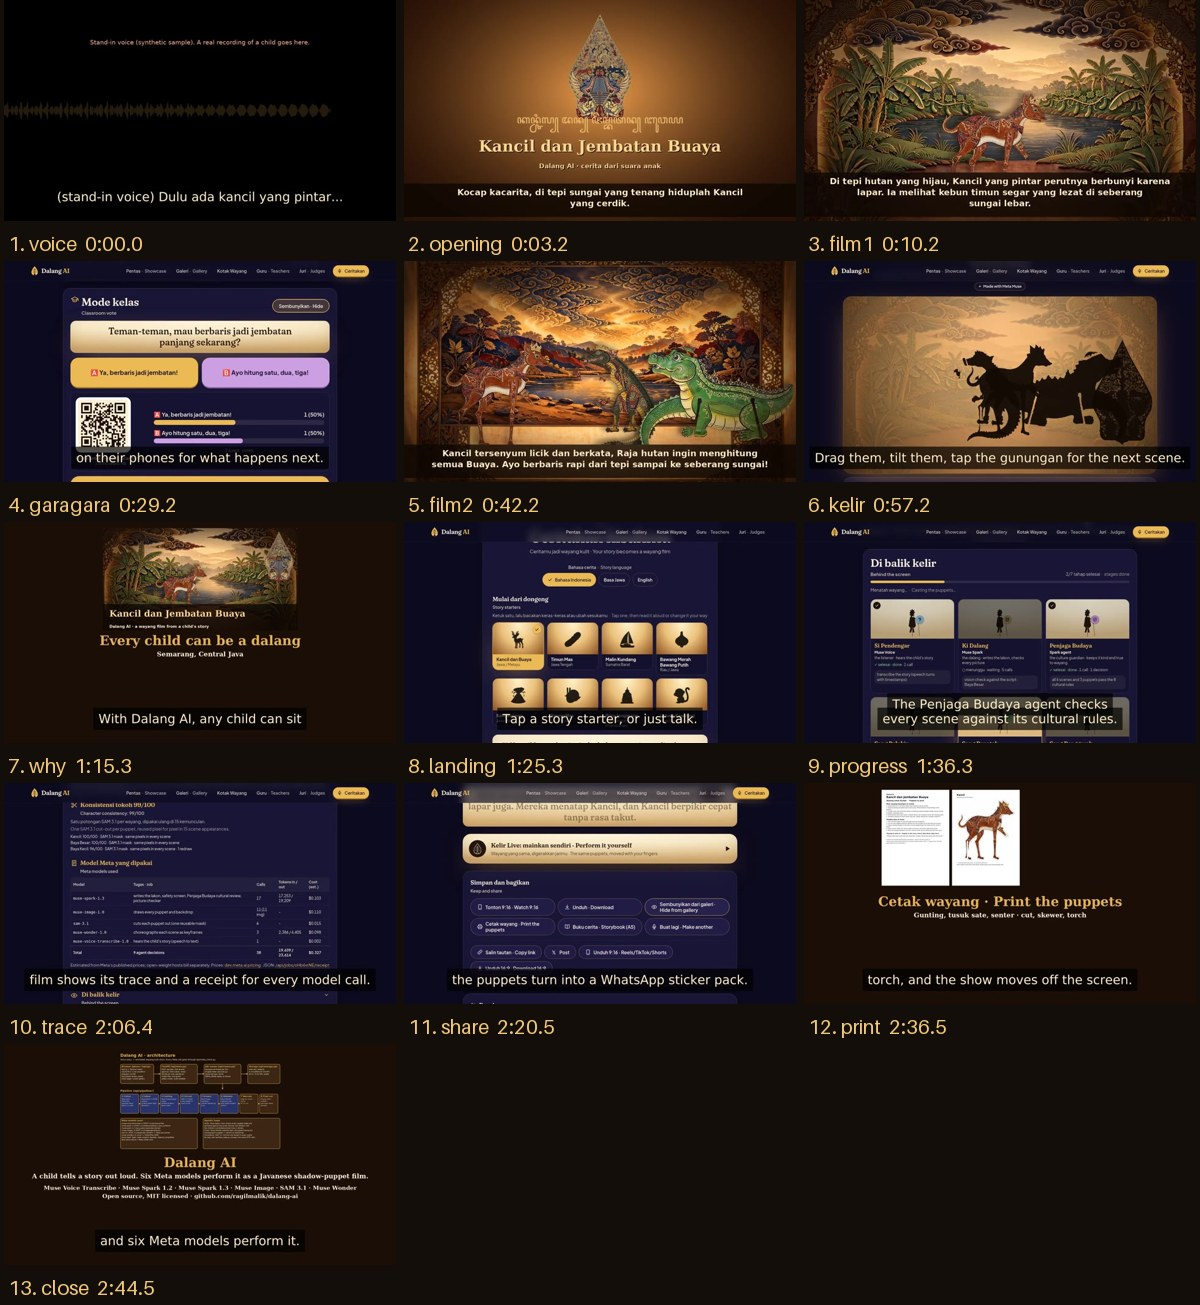
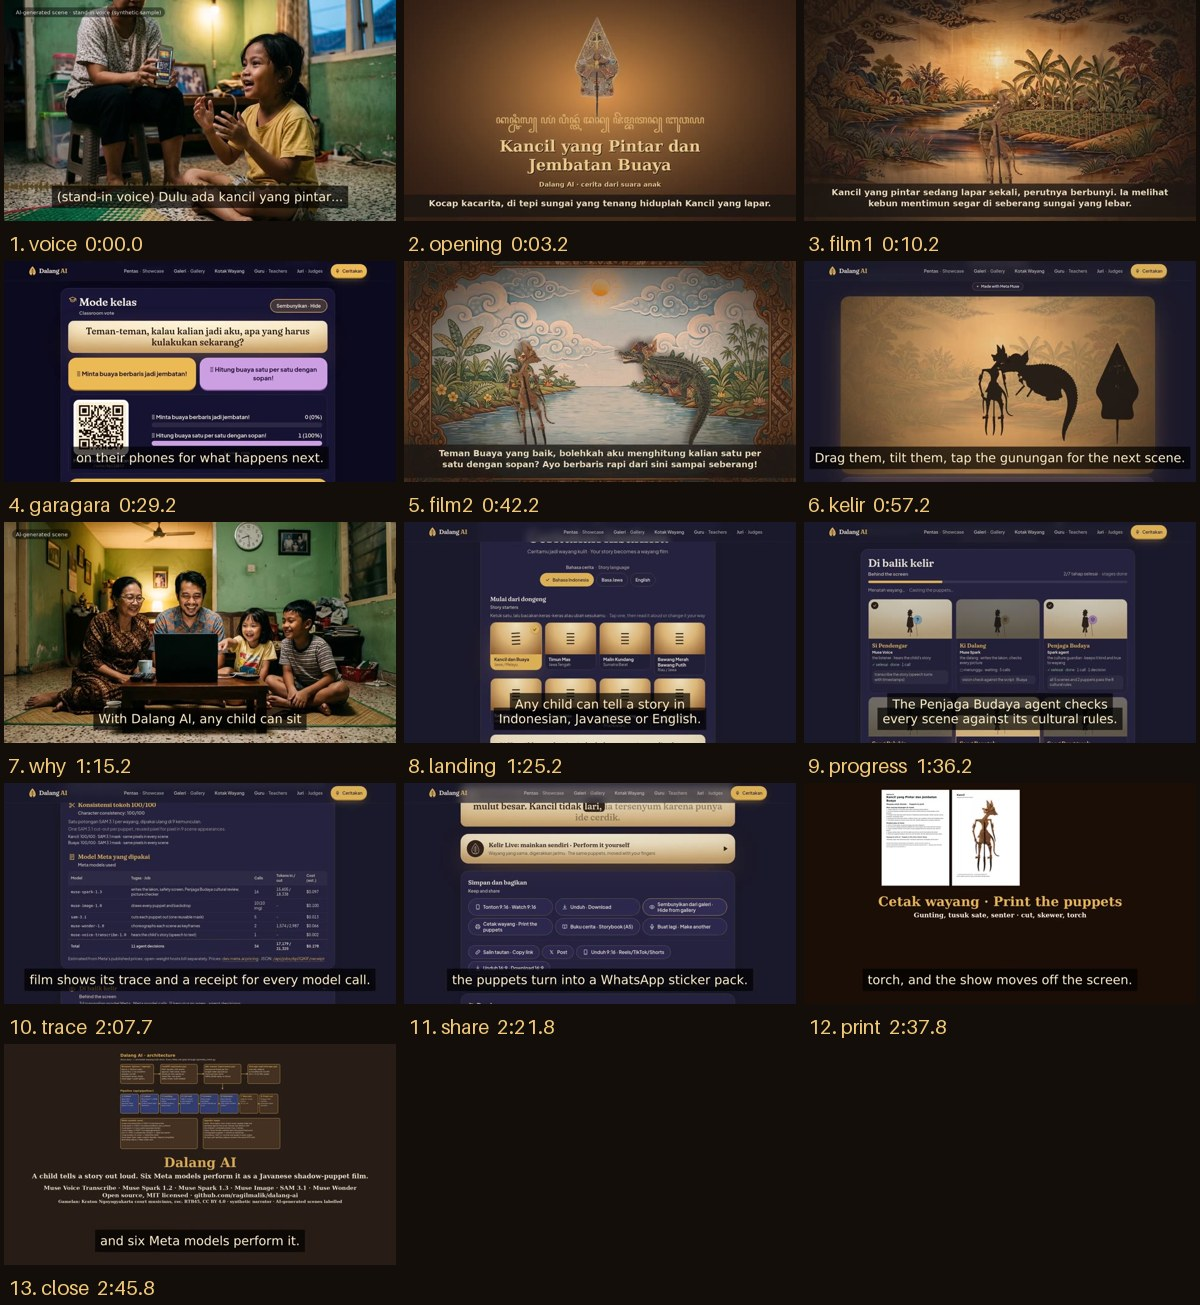
Nov 7: final check, sample scores credit the Kraton recording, credits and storyboard updated

diff --git a/api/pipeline/engine.py b/api/pipeline/engine.py
@@ -430,7 +430,8 @@ def _encode(kelir: Kelir, out: Path, dst: Path, fps: int, n: int, W: int, H: int
 
 
 def soundtrack(film: Film, out_wav: Path) -> Path:
-    """Narration + synthesised gamelan-style gong and bonang (made in code, so no music licence needed)."""
+    """Narration, the gong and bonang cues on the title and end cards (made in code), and the gamelan bed under the
+    scenes (music_bed: the Kraton recording, CC BY 4.0, or the code-made ensemble)."""
     sr = media.SR
     total = np.zeros(int(film.total * sr) + sr, np.float32)
     voice = np.zeros_like(total)  # narration only, used to duck the music bed

diff --git a/tests/test_director_gamelan.py b/tests/test_director_gamelan.py
@@ -186,3 +186,14 @@ def test_decode_rejects_an_empty_file(tmp_path):
     bad.write_bytes(b"")
     with pytest.raises((subprocess.CalledProcessError, ValueError)):
         gamelan._decode(str(bad))
+
+
+def test_bundled_samples_name_the_gamelan_they_play():
+    """The shipped sample films were cut with the Kraton recording, so their score must say so (and credit it)."""
+    from api import samples
+
+    states = samples.bundled()
+    assert len(states) == 3
+    for s in states:
+        assert s["score"]["procedural"] is False, s["sample_key"]
+        assert s["score"]["recording"] == gamelan.RECORDING_CREDIT

diff --git a/docs/demo/STORYBOARD.md b/docs/demo/STORYBOARD.md
@@ -1,6 +1,6 @@
 # Demo video storyboard
 
-Generated by `scripts/demo_storyboard.py` from `dalang-ai-demo.mp4` (176.6 s). One still per shot, taken mid-shot.
+Generated by `scripts/demo_storyboard.py` from `dalang-ai-demo.mp4` (178.2 s). One still per shot, taken mid-shot.
 
 | # | Time | Shot | Still | Voice-over |
 |---|---|---|---|---|
@@ -9,11 +9,11 @@ Generated by `scripts/demo_storyboard.py` from `dalang-ai-demo.mp4` (176.6 s). O
 | 3 | 0:10.2-0:29.2 | film1 | ![film1](storyboard/03-film1.jpg) | That's a kid's story. Ninety seconds of talking, performed back as wayang kulit. |
 | 4 | 0:29.2-0:42.2 | garagara | ![garagara](storyboard/04-garagara.jpg) | Then the gara-gara. The show pauses and the whole class votes on their phones for what happens next. |
 | 5 | 0:42.2-0:57.2 | film2 | ![film2](storyboard/05-film2.jpg) | (film plays with its own narration and gamelan) |
-| 6 | 0:57.2-1:15.3 | kelir | ![kelir](storyboard/06-kelir.jpg) | Then the child takes the puppets. In Kelir Live they're on a lamp-lit screen. Drag them, tilt them, tap the gunungan for the next scene. |
-| 7 | 1:15.3-1:25.3 | why | ![why](storyboard/07-why.jpg) | Wayang kulit is a thousand years old. With Dalang AI, any child can sit behind the kelir and be the dalang. (Malik, first person: I'm Malik, from Semarang. Wayang is a thousand years old, but the kids around me have never sat in front of a kelir. So I built Dalang AI.) |
-| 8 | 1:25.3-1:36.3 | landing | ![landing](storyboard/08-landing.jpg) | Any child can tell a story in Indonesian, Javanese or English. Tap a story starter, or just talk. Nothing to type. |
-| 9 | 1:36.3-2:06.4 | progress | ![progress](storyboard/09-progress.jpg) | Six Meta models work as one troupe, and you can watch them on stage. Muse Voice Transcribe listens, Muse Spark one point two hears Javanese, and Muse Spark one point three writes the lakon. The Penjaga Budaya agent checks every scene against its cultural rules. Muse Image carves each puppet once and SAM three point one cuts it out. Muse Wonder plans every move, and the Dalang Director sets the camera and the gamelan. |
-| 10 | 2:06.4-2:20.5 | trace | ![trace](storyboard/10-trace.jpg) | It checks its own work. A vision agent redraws any picture that breaks the script, and every film shows its trace and a receipt for every model call. |
-| 11 | 2:20.5-2:36.5 | share | ![share](storyboard/11-share.jpg) | Read-along captions light up each word as it's spoken. Share the film to the Pentas wall, and the puppets turn into a WhatsApp sticker pack. |
-| 12 | 2:36.5-2:44.5 | print | ![print](storyboard/12-print.jpg) | Print the puppets and the storybook, grab a torch, and the show moves off the screen. |
-| 13 | 2:44.5-2:56.6 | close | ![close](storyboard/13-close.jpg) | Dalang AI. A child tells a story out loud, and six Meta models perform it. Every child can be a dalang. (Malik, first person: Built solo this week with Meta's models. Dalang AI: every child can be a dalang. Matur nuwun.) |
+| 6 | 0:57.2-1:15.2 | kelir | ![kelir](storyboard/06-kelir.jpg) | Then the child takes the puppets. In Kelir Live they're on a lamp-lit screen. Drag them, tilt them, tap the gunungan for the next scene. |
+| 7 | 1:15.2-1:25.2 | why | ![why](storyboard/07-why.jpg) | Wayang kulit is a thousand years old. With Dalang AI, any child can sit behind the kelir and be the dalang. (Malik, first person: I'm Malik, from Semarang. Wayang is a thousand years old, but the kids around me have never sat in front of a kelir. So I built Dalang AI.) |
+| 8 | 1:25.2-1:36.2 | landing | ![landing](storyboard/08-landing.jpg) | Any child can tell a story in Indonesian, Javanese or English. Tap a story starter, or just talk. Nothing to type. |
+| 9 | 1:36.2-2:07.7 | progress | ![progress](storyboard/09-progress.jpg) | Six Meta models work as one troupe, and you can watch them on stage. Muse Voice Transcribe listens, Muse Spark one point two hears Javanese, and Muse Spark one point three writes the lakon. The Penjaga Budaya agent checks every scene against its cultural rules. Muse Image carves each puppet once and SAM three point one cuts it out. Muse Wonder plans every move, and the Dalang Director sets the camera and the gamelan. |
+| 10 | 2:07.7-2:21.8 | trace | ![trace](storyboard/10-trace.jpg) | It checks its own work. A vision agent redraws any picture that breaks the script, and every film shows its trace and a receipt for every model call. |
+| 11 | 2:21.8-2:37.8 | share | ![share](storyboard/11-share.jpg) | Read-along captions light up each word as it's spoken. Share the film to the Pentas wall, and the puppets turn into a WhatsApp sticker pack. |
+| 12 | 2:37.8-2:45.8 | print | ![print](storyboard/12-print.jpg) | Print the puppets and the storybook, grab a torch, and the show moves off the screen. |
+| 13 | 2:45.8-2:58.2 | close | ![close](storyboard/13-close.jpg) | Dalang AI. A child tells a story out loud, and six Meta models perform it. Every child can be a dalang. (Malik, first person: Built solo this week with Meta's models. Dalang AI: every child can be a dalang. Matur nuwun.) |

diff --git a/docs/TEST_REPORT.md b/docs/TEST_REPORT.md
@@ -4,9 +4,9 @@
 
 | Check | Result |
 |---|---|
-| pytest (`pytest -q`, fake Meta API) | <!-- facts:tests -->557<!-- /facts --> tests pass, <!-- facts:coverage -->95%<!-- /facts --> line coverage of `api/` |
+| pytest (`pytest -q`, fake Meta API) | <!-- facts:tests -->558<!-- /facts --> tests pass, <!-- facts:coverage -->95%<!-- /facts --> line coverage of `api/` |
 | Full-stack e2e (`bash scripts/e2e_local.sh`) | <!-- facts:e2e -->29/29<!-- /facts --> steps |
-| Browser checks of the newest screens (`web/e2e/r5_ui.py`, 390 px phone) | 25/25 |
+| Browser checks of the newest screens (`web/e2e/r5_ui.py`, 390 px phone) | <!-- facts:e2e_ui -->30/30<!-- /facts --> |
 | axe-core audit (`bash scripts/a11y_local.sh`) | <!-- facts:a11y -->33<!-- /facts --> page checks, 0 violations ([ACCESSIBILITY.md](ACCESSIBILITY.md)) |
 | Home page largest paint (`web/e2e/r5_perf.py`, local production build) | under the 1.5 s target: 680 ms on Nov 4 (shared machine), 452 ms on Nov 3, 1108 ms on Nov 2 ([WEB_PERF_R5.md](WEB_PERF_R5.md)) |
 | Nov 3 after-checks (headers, titles, noindex, console, mic message, offline page, odd upload, one Sembah) | 21/21 |
@@ -14,6 +14,22 @@
 | Demo video | <!-- facts:demo_length -->2:58<!-- /facts -->, 1920x1080, -16.8 LUFS, re-recorded on Nov 6 (afternoon) on the live Meta Model API |
 
 The sections below are the dated runs, oldest first.
+
+## Final check: 2026-11-07, 00:35-00:55 WIB
+
+Fresh machine after a restart (Chromium re-installed), fake Meta API, no paid calls.
+
+| Check | Result |
+|---|---|
+| pytest with coverage | 558 passed, 3 warnings, 95% of `api/` (8 min 57 s) |
+| ruff / mypy | clean / no issues in 71 files |
+| `scripts/e2e_local.sh` | 29/29 steps, then 30/30 web checks |
+| `scripts/a11y_local.sh` | 33 page checks, 0 violations |
+| `voice_check.py` / `facts.py --check` | 0 hits / docs agree |
+
+Bugs found and fixed in this pass: two sample films whose saved score said "code-made gamelan" while they play the
+Kraton recording (new test `test_bundled_samples_name_the_gamelan_they_play`), Pocket TTS missing from
+`requirements-tts.txt`, the README credits table, a stale docstring, and the demo storyboard (rebuilt at 178.2 s).
 
 ## First full run: 2026-10-30, 05:31-05:35 WIB
 
@@ -210,7 +226,7 @@ slow 3G) and fixed what a family or a judge would hit: raw recordings could be f
 the film id, a forged `X-Forwarded-For: 127.0.0.1` skipped the hourly limit, uploads were read whole before the size
 check, there were no security headers, Sembah could be counted any number of times, the microphone stayed on after
 leaving the page, offline pages showed the browser's error, the film page polled forever, and puppet rods ran through
-the captions. After the fixes: pytest <!-- facts:tests -->557<!-- /facts --> tests (one SSE test timed out waiting
+the captions. After the fixes: pytest <!-- facts:tests -->558<!-- /facts --> tests (one SSE test timed out waiting
 for its server under parallel workers and passes alone; its wait was raised in ad37e64), coverage
 <!-- facts:coverage -->95%<!-- /facts -->, e2e 26/26, the phone browser checks 25/25, axe 0 violations on 22 page
 checks, and 21/21 after-checks for the fixes themselves. Two findings are left as they are: the hourly limit still
@@ -221,7 +237,7 @@ Later the same day the re-shot screenshots caught a film whose "Painting the sce
 and a server path. Two films with the same story were writing and reading one cached picture at the same moment, and
 one copied it half-written. Cached pictures are now written to a temp file and swapped in, one film at a time per
 cached picture, and a damaged entry is repainted. A failed film now shows a kind bilingual message and never the raw
-error text or a path. 21 new tests cover it; the whole suite is <!-- facts:tests -->557<!-- /facts --> tests, all
+error text or a path. 21 new tests cover it; the whole suite is <!-- facts:tests -->558<!-- /facts --> tests, all
 passing, coverage <!-- facts:coverage -->95%<!-- /facts -->, and every page was re-shot.
 
 ## 2026-11-04 (submission day)
@@ -237,7 +253,7 @@ After the fixes:
 
 | Check | Result |
 |---|---|
-| pytest (full suite, 2 workers) | <!-- facts:tests -->557<!-- /facts --> passed, 0 failed, <!-- facts:coverage -->95%<!-- /facts --> line coverage of `api/` (4,989 statements, 198 missed) |
+| pytest (full suite, 2 workers) | <!-- facts:tests -->558<!-- /facts --> passed, 0 failed, <!-- facts:coverage -->95%<!-- /facts --> line coverage of `api/` (4,989 statements, 198 missed) |
 | ruff, mypy (67 files) | 0, 0 |
 | eslint, tsc, `next build` | 0, 0, OK |
 | Full-stack e2e (`scripts/e2e_local.sh`) | <!-- facts:e2e -->29/29<!-- /facts --> steps (new step: the judge page's API docs link works through the website), web checks 25/25 |

diff --git a/README.md b/README.md
@@ -29,7 +29,7 @@ kids to see their own stories on the kelir.
 > http://localhost:8000/docs, and `make help` lists every command. What I checked against the real API, per model:
 > [docs/VERIFICATION_REPORT.md](docs/VERIFICATION_REPORT.md).
 >
-> Checks: <!-- facts:tests -->557<!-- /facts --> pytest tests (<!-- facts:coverage -->95%<!-- /facts --> line coverage), a full-stack e2e smoke test
+> Checks: <!-- facts:tests -->558<!-- /facts --> pytest tests (<!-- facts:coverage -->95%<!-- /facts --> line coverage), a full-stack e2e smoke test
 > (<!-- facts:e2e -->29/29<!-- /facts --> steps), 25 browser checks of the newest screens on a 390 px phone (`web/e2e/r5_ui.py`: Kelir Live drag/tilt/gunungan/keyboard, classroom vote, remix, stickers, /pentas, PWA offline), ruff, mypy, eslint, tsc and `next build`. `make check` runs them all
 > ([docs/TEST_REPORT.md](docs/TEST_REPORT.md)). There's also an axe-core accessibility audit (<!-- facts:a11y -->33<!-- /facts --> page checks incl. /kelir, /vote and /pentas, phone and desktop, 0 violations,
 > [docs/ACCESSIBILITY.md](docs/ACCESSIBILITY.md)) and a 6-films-at-once concurrency test (`scripts/load_local.sh`). Demo video: <!-- facts:demo_length -->2:58<!-- /facts -->.
@@ -389,13 +389,15 @@ Results are in [docs/TEST_REPORT.md](docs/TEST_REPORT.md), and the API verificat
 | Asset | Source | Licence |
 |---|---|---|
 | Puppets, backdrops, gunungan | Generated per film by Muse Image (in test mode, `FAKE_META=1`, labelled placeholder art drawn in code by `api/fake_meta.py` / `api/pipeline/mock.py`) | Generated at run time for the user; no third-party art in the repo |
-| Gamelan sound (gong, kempul, bonang/saron pattern, ducked bed) | Synthesised in code: `api/pipeline/media.py`, `engine.music_bed()` | Part of this repo, MIT |
-| Narration voices | Microsoft Edge neural voices via the open-source `edge-tts` client (LGPL-3.0, used as a library); optional Kokoro-82M (Apache-2.0) for English; Meta MMS-TTS only if you opt in with `TTS_ENGINE=mms` (CC-BY-NC-4.0, non-commercial) | Audio generated at run time; no weights in the repo |
+| Gamelan bed under the scenes | Recording of the court musicians of the Kraton Ngayogyakarta by RTB45 (freesound.org/people/RTB45/sounds/255544), via Wikimedia Commons, in `assets/music/` | CC BY 4.0, credited in the site footer and `assets/music/README.md` |
+| Gamelan cues (gong, kempul, bonang) and the `GAMELAN_SOURCE=procedural` bed | Synthesised in code: `api/pipeline/media.py`, `api/pipeline/gamelan.py` | Part of this repo, MIT |
+| Narration voices | Microsoft Edge neural voices via the open-source `edge-tts` client (LGPL-3.0, used as a library); optional Kokoro-82M (Apache-2.0) for English; optional Pocket TTS (Kyutai, MIT) with the CC0 `caro_davy` voice for the demo voice-over; Meta MMS-TTS only if you opt in with `TTS_ENGINE=mms` (CC-BY-NC-4.0, non-commercial) | Audio generated at run time; no weights in the repo |
 | Javanese script font | Noto Sans Javanese, bundled in `content/fonts/` | SIL Open Font License 1.1 (`content/fonts/OFL.txt`) |
 | Website fonts | Fraunces (headings) and Plus Jakarta Sans (text), Latin subsets bundled in `web/app/fonts/` | SIL Open Font License 1.1 (`web/app/fonts/OFL-*.txt`) |
 | Film fonts | System fonts (DejaVu on Linux, Segoe UI/Georgia on Windows); optional `.ttf` in `assets/fonts/` | Not redistributed in the repo |
 | Architecture diagram | Drawn in code: `docs/architecture.py` | MIT |
-| Screenshots | Captured from the app with `scripts/screenshots.py` | MIT |
+| Screenshots | Captured from the app with `scripts/screenshots.py` and `web/e2e/ui_shots.py` | MIT |
+| Demo B-roll (4 photo-style scenes) | AI-generated with a general image model, labelled "AI-generated scene" on screen; real app screenshots composited in ([docs/demo/broll/README.md](docs/demo/broll/README.md)) | Made for this project |
 
 ## Built during the hackathon
 

diff --git a/README.id.md b/README.id.md
@@ -40,7 +40,7 @@ bawaan (mode uji), dan semua gambarnya diberi label "placeholder art". Kode perm
 yang live. Hasil pemeriksaan per model dengan API asli ada di
 [docs/VERIFICATION_REPORT.md](docs/VERIFICATION_REPORT.md).
 
-Pemeriksaan: <!-- facts:tests -->557<!-- /facts --> tes pytest (<!-- facts:coverage -->95%<!-- /facts --> cakupan
+Pemeriksaan: <!-- facts:tests -->558<!-- /facts --> tes pytest (<!-- facts:coverage -->95%<!-- /facts --> cakupan
 baris), uji e2e penuh (<!-- facts:e2e -->29/29<!-- /facts --> langkah), ruff, mypy, eslint, tsc, dan `next build`.
 Video demo: <!-- facts:demo_length -->2:58<!-- /facts --> ([docs/demo/dalang-ai-demo.mp4](docs/demo/dalang-ai-demo.mp4)).
 
@@ -148,7 +148,7 @@ Video demo: <!-- facts:demo_length -->2:58<!-- /facts --> ([docs/demo/dalang-ai-
 | Memilih wayang | Satu lembar wayang per tokoh, lalu dipotong menjadi PNG transparan dan dipakai di semua adegan | Muse Image + SAM 3.1 |
 | Memeriksa | Setiap gambar dicek terhadap naskah; yang salah digambar ulang (loop agen) | Muse Spark vision |
 | Menggerakkan | Rencana gerak berupa keyframe, dimainkan oleh mesin kelir buatan saya dengan nyala blencong dan bayangan | Muse Wonder |
-| Narasi dan potongan akhir | Suara narator, gamelan sintetis, subtitle, gunungan, 16:9 dan 9:16 | edge-tts Emma Multilingual (Bahasa Indonesia), edge-tts Siti (Basa Jawa), Kokoro-82M `af_heart` untuk Bahasa Inggris kalau dipasang, + ffmpeg (Meta belum punya model TTS; pilihan suaranya ada di [docs/VOICES.md](docs/VOICES.md)) |
+| Narasi dan potongan akhir | Suara narator, gamelan (rekaman asli Kraton Ngayogyakarta, CC BY 4.0), subtitle, gunungan, 16:9 dan 9:16 | edge-tts Emma Multilingual (Bahasa Indonesia), edge-tts Siti (Basa Jawa), Kokoro-82M `af_heart` untuk Bahasa Inggris kalau dipasang, + ffmpeg (Meta belum punya model TTS; pilihan suaranya ada di [docs/VOICES.md](docs/VOICES.md)) |
 
 Beberapa hal yang perlu diketahui: Muse Wonder menghasilkan teks (rencana gerak), bukan video. Meta Model API tidak
 punya model text-to-speech. Muse Spark Open dan Muse Glimmer hanya tersedia lewat penyedia hosting. Rinciannya ada di

diff --git a/docs/SUBMISSION_FORM.md b/docs/SUBMISSION_FORM.md
@@ -71,7 +71,7 @@ project, labelled as samples) were made with it on Nov 5: 91 Meta calls, none fa
 narration is Kokoro-82M (English) and edge-tts, picked in a listening test.
 
 Stack: FastAPI + Python pipeline, Pillow/NumPy kelir renderer, ffmpeg, SQLite, SSE; Next.js + Tailwind. MIT
-licensed, <!-- facts:tests -->557<!-- /facts --> automated tests (<!-- facts:coverage -->95%<!-- /facts --> line coverage), full-stack e2e test, CI. README in English and Bahasa Indonesia.
+licensed, <!-- facts:tests -->558<!-- /facts --> automated tests (<!-- facts:coverage -->95%<!-- /facts --> line coverage), full-stack e2e test, CI. README in English and Bahasa Indonesia.
 
 
 ## Answer 9: Describe your use of Meta products
@@ -121,7 +121,7 @@ its own hardware.
 All of it, from an empty repository: the FastAPI backend and nine-stage agent pipeline; the Meta client, SAM
 mask handling, verify (redraw) agent and Muse Wonder motion planner; the kelir animation engine (keyframes, lamp
 flicker, shadows, gunungan transitions, captions, gamelan bed); Gara-gara branching, own-voice narration, Kotak
-Wayang and the printable puppets; a fake Meta API that mirrors the documented endpoints, <!-- facts:tests -->557<!-- /facts --> tests and CI; the
+Wayang and the printable puppets; a fake Meta API that mirrors the documented endpoints, <!-- facts:tests -->558<!-- /facts --> tests and CI; the
 Next.js app and its design system (recording, live progress, storyboard review, player, Kelir Live, classroom vote,
 share cards, gallery, agent trace); the narrator voice picker; and all the
 docs in English and Bahasa Indonesia. The git history starts Oct 29, 2026 UTC. No code, art or models from before the

diff --git a/CHANGELOG.md b/CHANGELOG.md
@@ -3,6 +3,18 @@
 Dates are WIB (UTC+7). The project was built during the Meta Global AI Developer Hackathon, Oct 26 to Nov 4, 2026;
 Nov 5 is the go-live on the real Meta Model API.
 
+## 2026-11-07: final check
+
+* Re-ran everything on a fresh machine: pytest, coverage, ruff, mypy, the local end-to-end runs, the browser runs,
+  the accessibility checks, the voice and wording checks and the facts check.
+* Fixed: the Kancil and Timun Mas sample films said their music was the code-made gamelan, but they play the Kraton
+  recording. Their saved score now names and credits the recording, and a new test keeps all three samples honest.
+* Fixed: `requirements-tts.txt` didn't list Pocket TTS, the demo narrator. It does now.
+* Fixed: the credits table in the README still said all the gamelan was made in code. It now credits the Kraton
+  recording (CC BY 4.0), Pocket TTS and the labelled AI-generated scenes in the demo. Same fix in README.id,
+  WRITEUP and MALIK_CHECKLIST, and in a stale docstring in `api/pipeline/engine.py`.
+* Rebuilt the demo storyboard from the new 178.2 s video.
+
 ## 2026-11-06 (afternoon): media remake (art, music, voice, video, screenshots)
 
 * The art looks like real puppets now. The Muse Image prompts ask for a hand-carved buffalo-rawhide puppet with

diff --git a/docs/HANDOFF.md b/docs/HANDOFF.md
@@ -9,7 +9,7 @@ For whoever picks this up next (me later on, or a teammate).
 * Three sample films made with the live models ship in `content/samples/` and load on first start
   (`api/samples.import_bundled`, `BUNDLED_SAMPLES=false` to skip). `scripts/bundle_samples.py --data <data dir>`
   refreshes them from a data folder.
-* Checks: pytest (<!-- facts:tests -->557<!-- /facts --> tests, <!-- facts:coverage -->95%<!-- /facts --> line coverage), full-stack e2e smoke test (<!-- facts:e2e -->29/29<!-- /facts --> steps), ruff, mypy, eslint, tsc, `next build` (see TEST_REPORT.md).
+* Checks: pytest (<!-- facts:tests -->558<!-- /facts --> tests, <!-- facts:coverage -->95%<!-- /facts --> line coverage), full-stack e2e smoke test (<!-- facts:e2e -->29/29<!-- /facts --> steps), ruff, mypy, eslint, tsc, `next build` (see TEST_REPORT.md).
 * The public repo is a clean export (one commit per release, no `.env`, scanned with gitleaks before each push); the
   full dated history stays on my machine because it holds old demo cuts. CI is in `.github/workflows/ci.yml`; deploy
   blueprints are `render.yaml` (backend) and `web/vercel.json` (website).

diff --git a/docs/SUBMISSION.md b/docs/SUBMISSION.md
@@ -52,7 +52,7 @@ Meta's Model API has no text-to-speech.
 All of it, starting from an empty repository: the FastAPI backend and nine-stage agent pipeline; the Meta client, SAM
 mask handling, verify (redraw) agent and Muse Wonder motion planner; the kelir animation engine (keyframes, lamp
 flicker, shadows, gunungan transitions, captions, gamelan bed); the narrator voice picker; Gara-gara branching, own-voice narration, Kotak
-Wayang and the printable puppets; a fake Meta API that mirrors the documented endpoints, <!-- facts:tests -->557<!-- /facts --> tests and CI; the
+Wayang and the printable puppets; a fake Meta API that mirrors the documented endpoints, <!-- facts:tests -->558<!-- /facts --> tests and CI; the
 Next.js app and its design system (recording, live progress as a pipeline theatre, storyboard review, player, Kelir Live, classroom vote,
 remix, share cards, stickers, /pentas, gallery, agent trace); and all the docs in English and Bahasa Indonesia. The
 git history starts Oct 29, 2026 UTC (Oct 30, 05:01 WIB). No code, art or models from before the event are in it.

diff --git a/docs/MALIK_CHECKLIST.md b/docs/MALIK_CHECKLIST.md
@@ -4,7 +4,7 @@ Status on Nov 6, 2026, 03:00 WIB. The app runs on the live Meta Model API (prefl
 `docs/VERIFICATION_REPORT.md`). The three sample films in the gallery, the home page loop, the share poster, the
 README gif, the demo video, its teasers, the launch clips, the thumbnail and every screenshot were made with the live
 models. What is still not real, and why:
-- the demo's narrator: a synthetic voice (Kokoro-82M `af_heart`), not me. My own voice-over can replace it any time
+- the demo's narrator: a synthetic voice (Pocket TTS `caro_davy`), not me. The four photo-style scenes of people in the demo are AI-generated and labelled. My own voice-over can replace it any time
   (`docs/demo/real/README.md`)
 - the story recording in the demo (`assets/sample-story/sample_story_synthetic.mp3`): a synthetic voice, labelled
   as one -> step 4 if I get a real recording with a parent's consent

diff --git a/docs/WRITEUP.md b/docs/WRITEUP.md
@@ -45,7 +45,7 @@ screen"); [docs/META_MODELS.md](META_MODELS.md) walks through the prompts, schem
 
 ## Tech stack
 Python 3.12, FastAPI, Pydantic v2, httpx, Pillow + NumPy (kelir renderer), ffmpeg (H.264/AAC, 16:9 +
-9:16), SQLite, Server-Sent Events; Next.js 16 App Router, React 19, Tailwind with my own design system (Fraunces + Plus Jakarta Sans); Kokoro-82M and edge-tts for narration
+9:16), SQLite, Server-Sent Events; Next.js 16 App Router, React 19, Tailwind with my own design system (Fraunces + Plus Jakarta Sans); Kokoro-82M and edge-tts for narration, Pocket TTS for the demo voice-over, a CC BY 4.0 Kraton gamelan recording under the films
 (Meta has no TTS model); pytest, ruff, mypy, ESLint, GitHub Actions; Docker, Render and Vercel configs.
 
 ## Challenges
